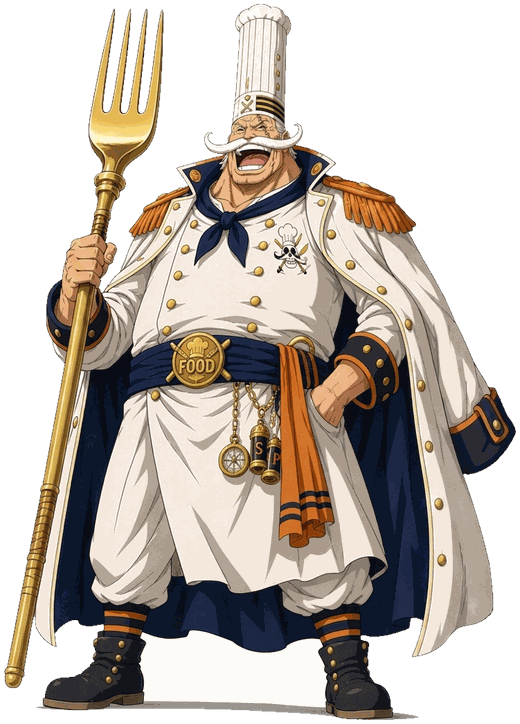
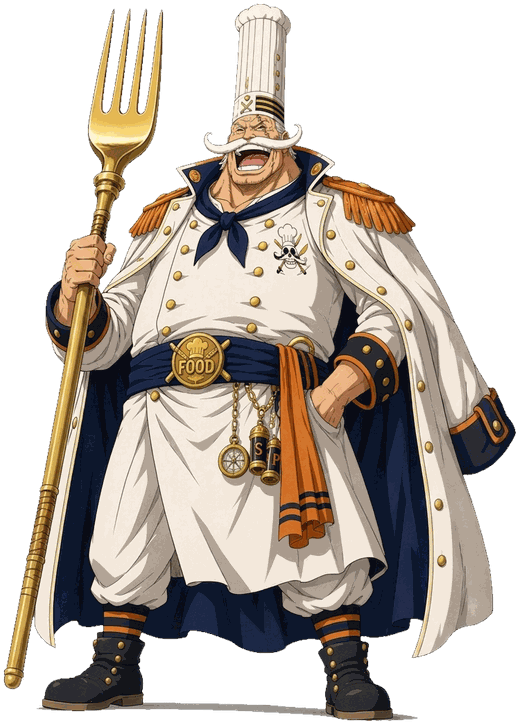
Remove leftover background pocket between Captain's legs
The soft floor shadow walled off an enclosed background pocket between the
legs, which the extraction kept opaque. Fix: keep the safe full-figure mask
(toque intact), then surgically drop low-centroid enclosed bright pockets and
strip the residual floor-shadow band. Re-optimize to ~97 KB.

Claude-Session: https://claude.ai/code/session_018Eex95Na1GPvkY3SFTDzK7

diff --git a/index.html b/index.html
@@ -91,7 +91,7 @@
             src="assets/captain.png"
             alt="Le Capitaine Food, chef à la toque et à la grande moustache blanche, brandissant une fourchette dorée"
             width="520"
-            height="724"
+            height="725"
           />
           <figcaption>« Le ventre plein fait l'équipage vaillant. »</figcaption>
         </figure>
